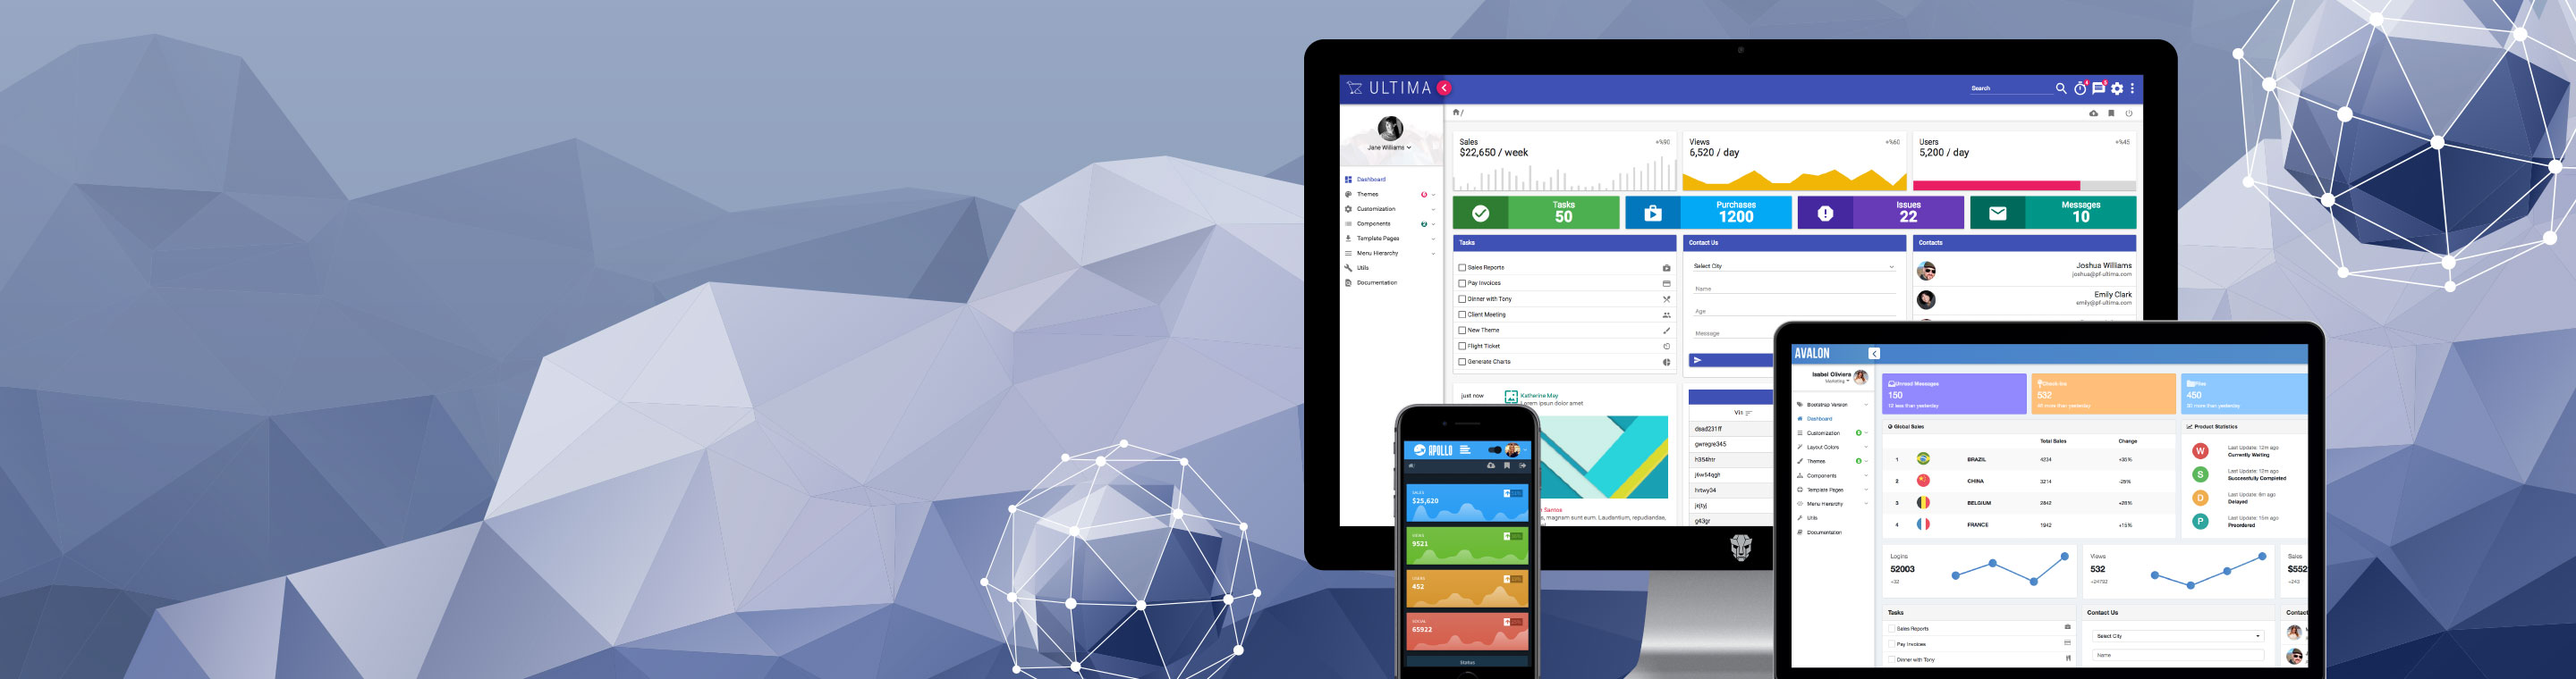
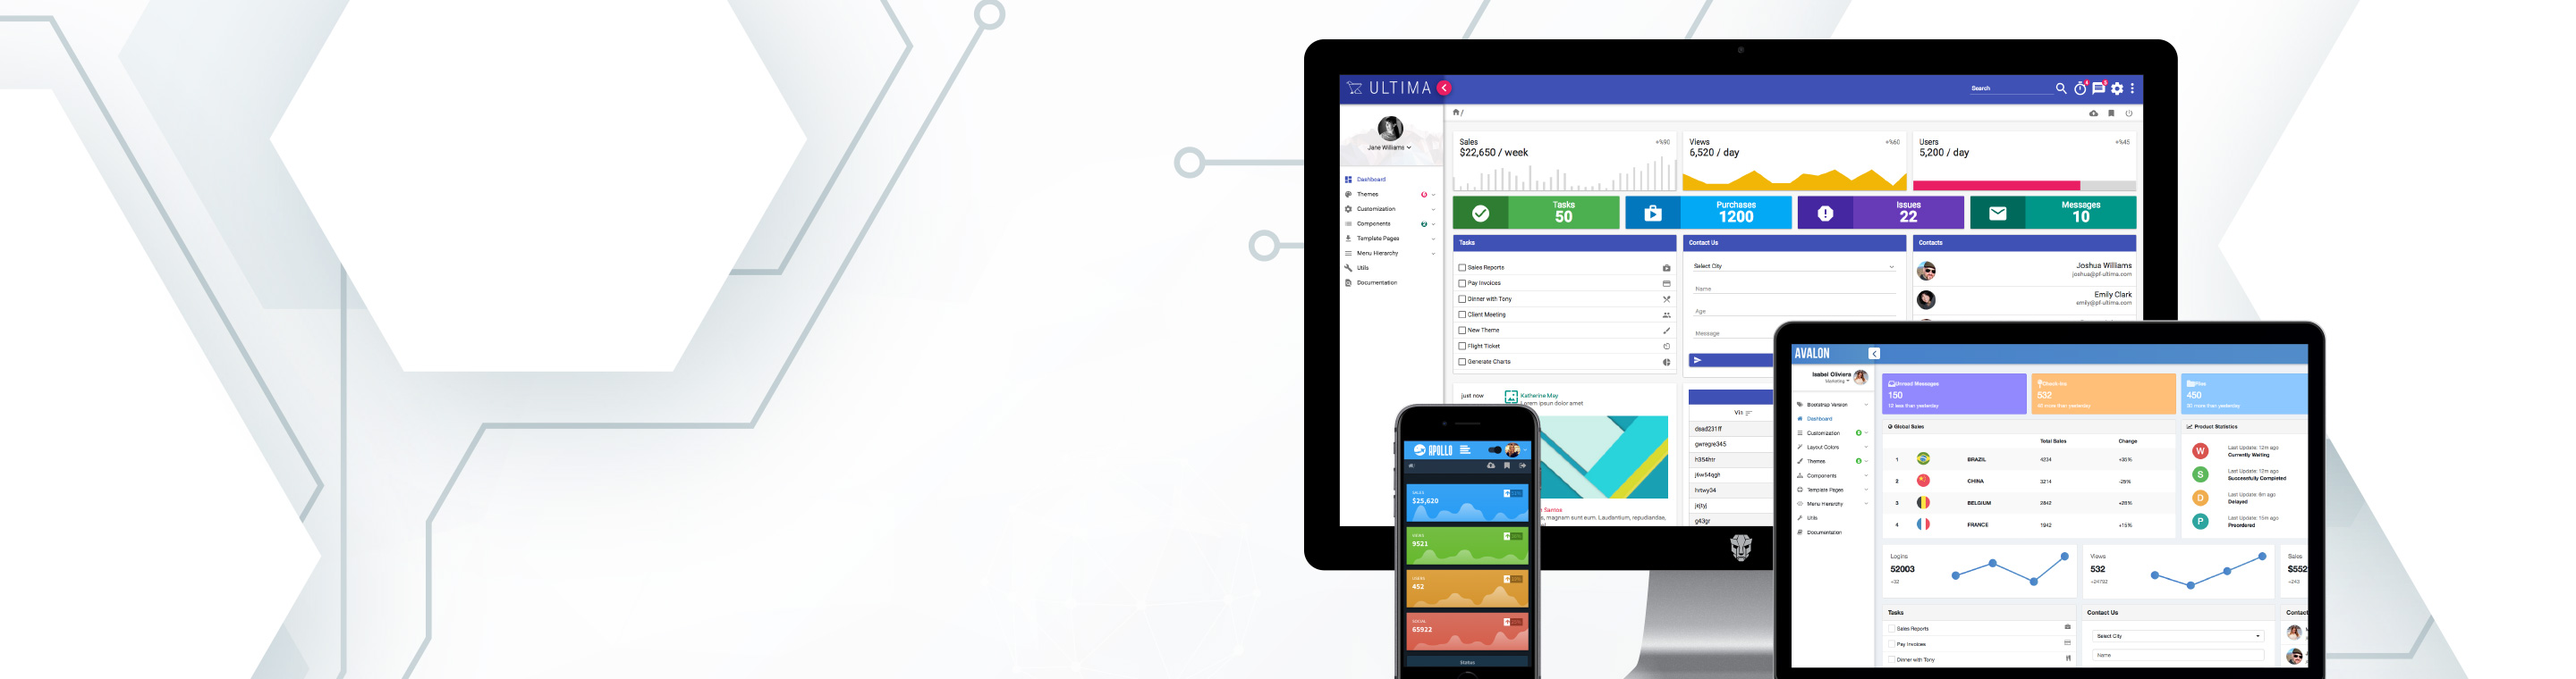
Update hero

diff --git a/src/assets/showcase/css/site.scss b/src/assets/showcase/css/site.scss
@@ -1466,7 +1466,7 @@ a {
 		background-image: url('assets/showcase/images/home/introduction.jpg');
 		background-repeat: no-repeat;
 		background-size: cover;
-		color: #ffffff;
+		color: #20272a;
 		padding: 80px 30px 80px 50px;
 		>div {
 			padding: 100px 100px 0 100px;
@@ -1492,7 +1492,8 @@ a {
             margin-left: -50px;
             padding: 2px 50px 2px 50px;
             font-size: 1.5em;
-            background-image: linear-gradient(270deg, rgba(148,163,194,0.10) 0%, #283249 100%);
+			background-image: linear-gradient(270deg, rgba(32,39,42,0.10) 0%, #20272a 100%);
+			color: white;
         }
     }
 
